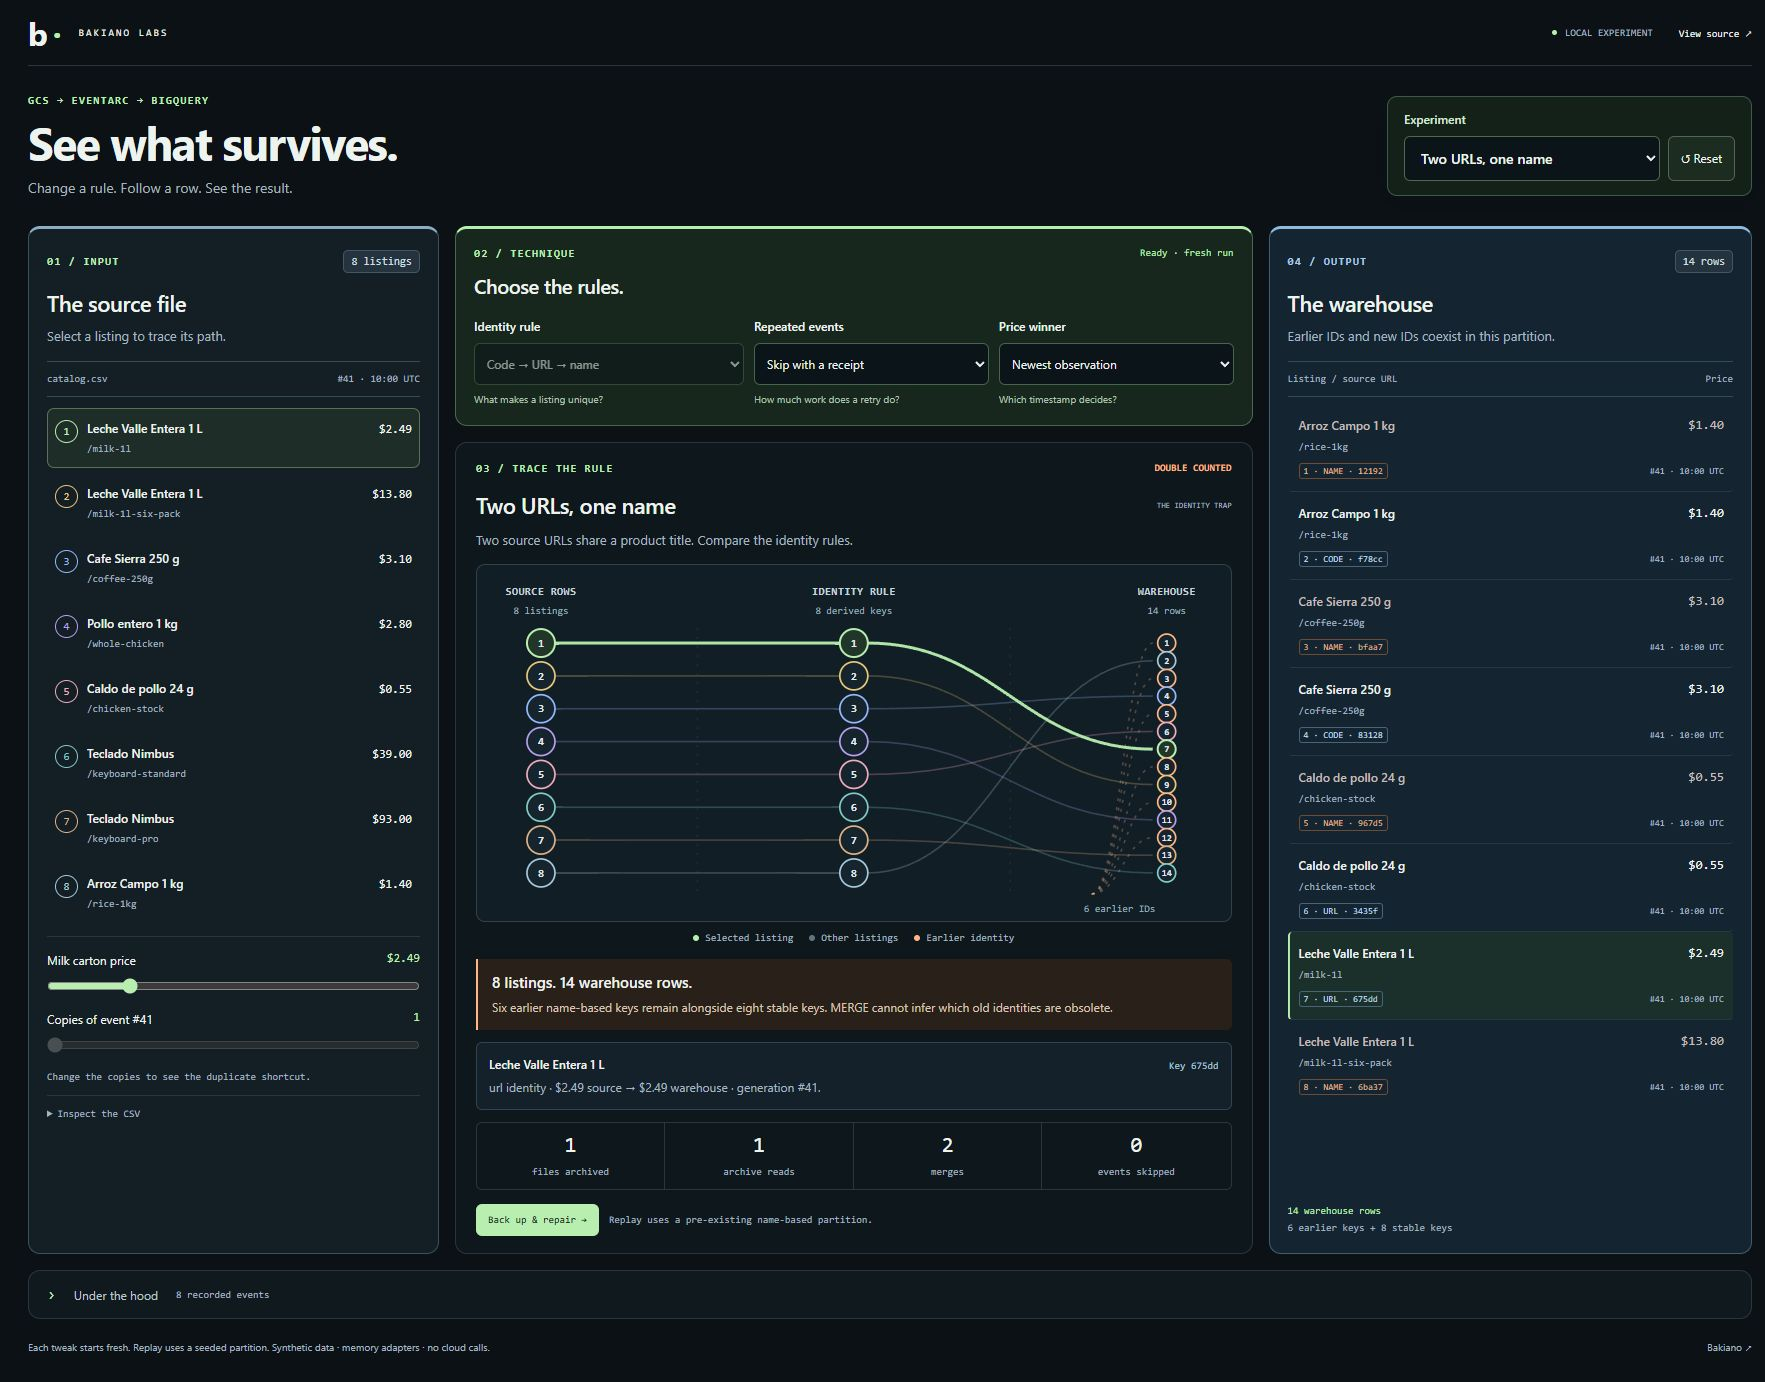
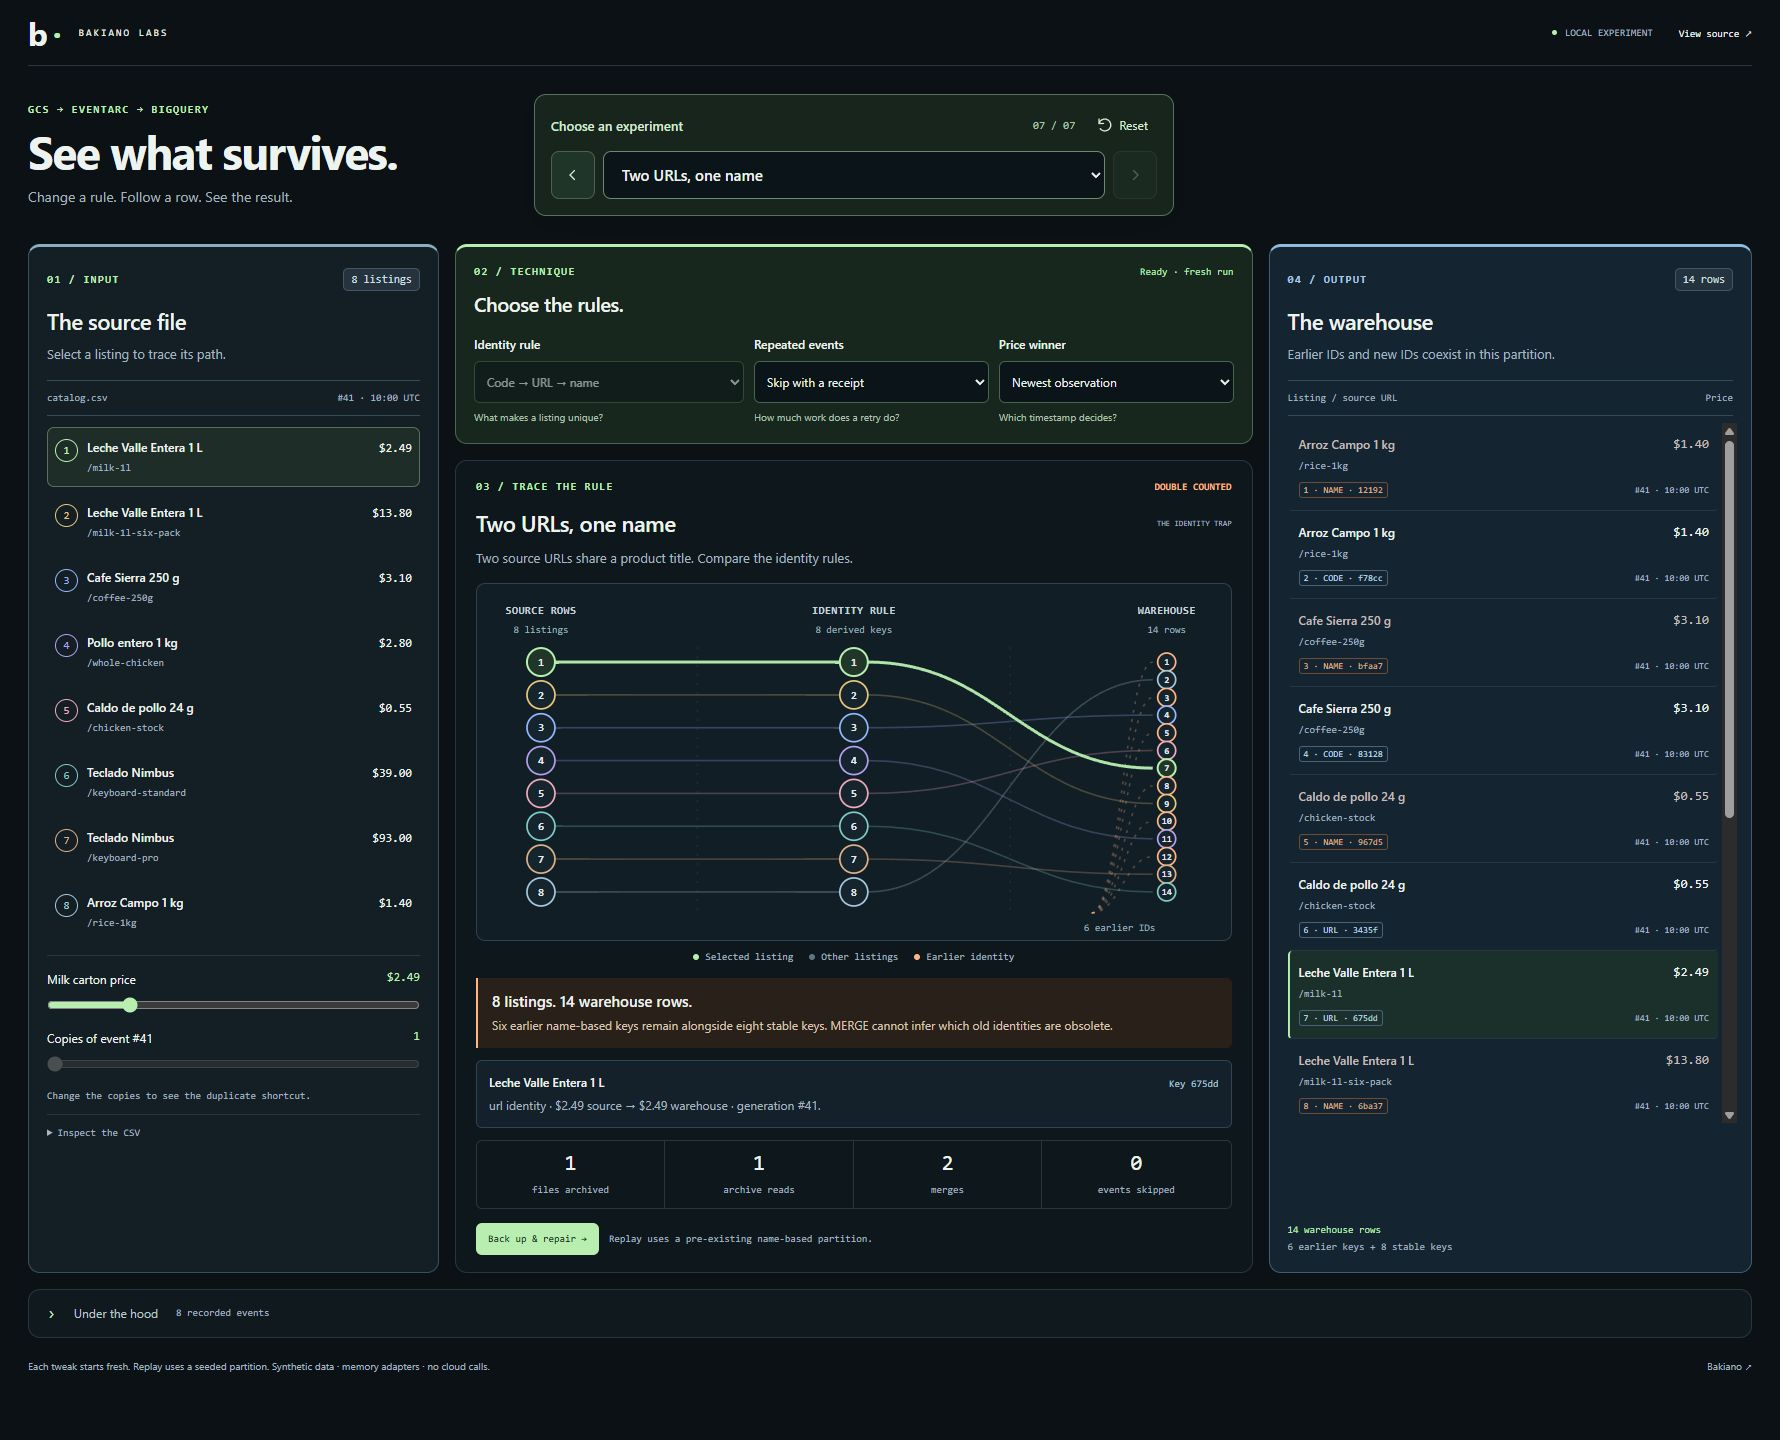
fix(demo): center experiment navigation above the rules

diff --git a/demo/style.css b/demo/style.css
@@ -20,7 +20,7 @@ button, select, input, summary, a { -webkit-tap-highlight-color: transparent; }
 button:focus-visible, select:focus-visible, input:focus-visible, summary:focus-visible, a:focus-visible { outline: 2px solid var(--mint); outline-offset: 3px; }
 button:disabled, select:disabled, input:disabled { cursor: default; opacity: .55; }
 [hidden] { display: none !important; }
-.shell { width: 100%; padding: 0 28px; }
+.shell { --lab-columns: minmax(245px,.85fr) minmax(440px,1.65fr) minmax(260px,1fr); --lab-gap: 16px; width: 100%; padding: 0 28px; }
 .top { height: 66px; border-bottom: 1px solid var(--line); display: flex; justify-content: space-between; align-items: center; gap: 18px; }
 .brand { display: flex; align-items: center; gap: 7px; font: bold 32px var(--sans); letter-spacing: -2px; }
 .brand > span:first-child { color: var(--mint); }
@@ -28,22 +28,29 @@ button:disabled, select:disabled, input:disabled { cursor: default; opacity: .55
 .top-right { display: flex; gap: 26px; font: 10px var(--mono); }
 .local { color: var(--muted); display: flex; gap: 8px; align-items: center; }
 .local i { width: 5px; height: 5px; border-radius: 50%; background: var(--mint); }
-.masthead { display: flex; align-items: center; justify-content: space-between; gap: 30px; padding: 28px 0; }
+.masthead { display: grid; grid-template-columns: var(--lab-columns); align-items: center; column-gap: var(--lab-gap); padding: 28px 0; }
 .eyebrow { font: 600 11px var(--mono); color: var(--mint); letter-spacing: 1.2px; margin: 0; }
 .masthead .eyebrow { margin-bottom: 10px; }
 h1 { font-size: clamp(32px, 2.9vw, 46px); font-weight: 650; line-height: 1.12; letter-spacing: -1.5px; margin: 0 0 8px; }
 h2 { font-size: 22px; font-weight: 600; letter-spacing: -.4px; margin: 0 0 6px; }
 h3 { margin: 0; font-size: 14px; font-weight: 550; }
 .lede { color: #a4b5bc; margin: 0; font-size: 14px; }
-.preset-control { min-width: 365px; padding: 14px 16px; border: 1px solid #3e5b49; border-radius: 10px; background: #142119; box-shadow: 0 7px 28px #0002; }
-.preset-control > label { display: block; font: 600 12px var(--sans); color: #d3e9d1; margin-bottom: 9px; }
-.preset-control select { font-size: 14px; font-weight: 550; border-color: #526653; padding: 11px 12px; }
-.preset-row { display: flex; gap: 8px; }
+.preset-control { grid-column: 2; justify-self: center; width: 100%; max-width: 640px; min-width: 0; padding: 14px 16px 16px; border: 1px solid #56725b; border-radius: 12px; background: #17251d; box-shadow: 0 7px 28px #0002; }
+.preset-heading { display: flex; justify-content: space-between; align-items: center; gap: 12px; margin-bottom: 10px; }
+.preset-heading > label { font: 600 13px var(--sans); color: #d3e9d1; }
+.preset-actions { display: flex; align-items: center; gap: 12px; }
+.preset-position { font: 11px var(--mono); color: #aec9ad; white-space: nowrap; }
+.preset-row { display: grid; grid-template-columns: 44px minmax(0,1fr) 44px; gap: 8px; }
+.preset-control select { height: 48px; font-size: 15px; font-weight: 550; border-color: #6c8a6e; padding: 11px 14px; border-radius: 8px; }
+.preset-arrow, .preset-reset { display: flex; align-items: center; justify-content: center; border: 1px solid #49634e; background: #203529; color: #d7eed1; border-radius: 8px; }
+.preset-arrow { height: 48px; padding: 0; }
+.preset-reset { min-height: 32px; padding: 5px 8px; gap: 5px; font-size: 12px; background: transparent; border-color: transparent; }
+.preset-arrow svg, .preset-reset svg { width: 18px; height: 18px; fill: none; stroke: currentColor; stroke-width: 1.8; stroke-linecap: round; stroke-linejoin: round; }
+.preset-arrow:hover:not(:disabled), .preset-reset:hover:not(:disabled) { background: #2b4634; border-color: var(--mint); }
+.preset-arrow:disabled { opacity: .3; }
 select { color: var(--text); background: #0b1419; border: 1px solid #34454e; border-radius: 6px; padding: 10px 12px; min-width: 0; width: 100%; font-size: 12px; }
 option { background: #111c22; color: var(--text); }
-.ghost { white-space: nowrap; border: 1px solid #526653; background: #1c2c21; color: var(--text); font: 12px var(--sans); padding: 10px 12px; border-radius: 6px; }
-.ghost:hover { border-color: var(--mint); }
-.experiment { display: grid; grid-template-columns: minmax(245px,.85fr) minmax(440px,1.65fr) minmax(260px,1fr); grid-template-areas: "input technique output" "input explanation output"; grid-template-rows: auto 1fr; gap: 16px; align-items: stretch; }
+.experiment { display: grid; grid-template-columns: var(--lab-columns); grid-template-areas: "input technique output" "input explanation output"; grid-template-rows: auto 1fr; gap: var(--lab-gap); align-items: stretch; }
 .panel { background: var(--panel); border: 1px solid var(--line); border-radius: 12px; min-width: 0; }
 .input-panel { grid-area: input; padding: 21px 18px 16px; background: #141e25; border-color: #3b515e; border-top: 3px solid #8caec1; }
 .technique-panel { grid-area: technique; padding: 18px; background: #17271d; border-color: #4a6850; border-top: 3px solid #b8efb0; }
@@ -165,15 +172,14 @@ input[type=range] { width: 100%; accent-color: var(--mint); margin: 0 0 14px; he
 #journal .fail b { color: var(--orange); }
 footer { margin: 21px 0 27px; display: flex; justify-content: space-between; gap: 20px; font-size: 10px; color: var(--muted); }
 @media (min-width: 1800px) {
-  .shell { padding: 0 44px; }
-  .experiment { grid-template-columns: minmax(300px,.9fr) minmax(560px,1.55fr) minmax(330px,1fr); gap: 20px; }
+  .shell { --lab-columns: minmax(300px,.9fr) minmax(560px,1.55fr) minmax(330px,1fr); --lab-gap: 20px; padding: 0 44px; }
   .source-row { padding: 11px 8px; }
   .source-name, .output-row h3 { font-size: 12px; }
   .source-price, .output-row .price { font-size: 13px; }
 }
 @media (max-width: 1080px) {
-  .shell { padding: 0 18px; }
-  .experiment { grid-template-columns: minmax(240px,.8fr) minmax(420px,1.4fr); grid-template-areas: "input technique" "input explanation" "output output"; }
+  .shell { --lab-columns: minmax(240px,.8fr) minmax(420px,1.4fr); padding: 0 18px; }
+  .experiment { grid-template-areas: "input technique" "input explanation" "output output"; }
   .output-list { display: grid; grid-template-columns: repeat(2,1fr); gap: 0 15px; max-height: none; }
   .output-summary { margin-top: 0; }
 }
@@ -187,7 +193,11 @@ footer { margin: 21px 0 27px; display: flex; justify-content: space-between; gap
   .masthead { display: block; padding: 25px 0 20px; }
   h1 { font-size: 34px; }
   .lede { font-size: 13px; }
-  .preset-control { margin-top: 19px; min-width: 0; }
+  .preset-control { margin-top: 19px; padding: 12px; }
+  .preset-heading { gap: 8px; }
+  .preset-heading > label { font-size: 12px; }
+  .preset-actions { gap: 8px; }
+  .preset-control select { font-size: 13px; padding: 10px; }
   .experiment { display: flex; flex-direction: column; gap: 12px; }
   .input-panel, .output-panel, .explanation-panel { padding: 17px 14px; }
   .source-list { grid-template-columns: repeat(2,minmax(0,1fr)); gap: 3px; }

diff --git a/demo/app.js b/demo/app.js
@@ -179,12 +179,29 @@ function schedule() {
   $('#run-state').textContent='Updating…';
   timer=setTimeout(()=>run('start'),100);
 }
+function updatePreset() {
+  const index=scenarios.findIndex(scenario=>scenario.id===current);
+  $('#preset').value=current;
+  $('#preset-position').textContent=String(index+1).padStart(2,'0')+' / '+String(scenarios.length).padStart(2,'0');
+  $('#previous-experiment').disabled=index<=0;
+  $('#next-experiment').disabled=index>=scenarios.length-1;
+}
+function choosePreset(id) {
+  const scenario=scenarios.find(item=>item.id===id);
+  if(!scenario) return;
+  current=id; step='start'; selected=0;
+  updatePreset(); controls(scenario.defaults); run();
+}
 $('#input-rows').addEventListener('click',selectSource);
 $('#lineage').addEventListener('click',selectSource);
 $('#lineage').addEventListener('keydown',event=>{ if(['Enter',' '].includes(event.key)) { event.preventDefault(); selectSource(event); $('#input-rows [data-source="'+selected+'"]').focus({preventScroll:true}); } });
 for (const id of ['identity','receipts','latest']) $('#'+id).addEventListener('change',()=>{ updateKnobs(); run('start'); });
 for (const id of ['milk-price','deliveries']) $('#'+id).addEventListener('input',schedule);
-$('#preset').addEventListener('change',()=>{ current=$('#preset').value; step='start'; selected=0; controls(scenarios.find(s=>s.id===current).defaults); run(); });
+$('#preset').addEventListener('change',()=>choosePreset($('#preset').value));
+for(const [id,direction] of [['previous-experiment',-1],['next-experiment',1]]) $('#'+id).addEventListener('click',()=>{
+  const index=scenarios.findIndex(scenario=>scenario.id===current);
+  choosePreset(scenarios[index+direction]?.id);
+});
 $('#reset').addEventListener('click',()=>{ step='start'; controls(scenarios.find(s=>s.id===current).defaults); run(); });
 $('#replay').addEventListener('click',()=>run('replay'));
 $('#repair').addEventListener('click',()=>run('repair'));
@@ -198,6 +215,7 @@ try {
   if(!response.ok) throw new Error('Could not load experiments.');
   scenarios=await response.json();
   $('#preset').innerHTML=scenarios.map(s=>'<option value="'+escape(s.id)+'">'+escape(s.name)+'</option>').join('');
+  $('#preset').disabled=false; $('#reset').disabled=false; updatePreset();
   controls(scenarios[0].defaults);
   await run();
 } catch(error) { $('#run-state').textContent=error.message; }

diff --git a/demo/index.html b/demo/index.html
@@ -16,8 +16,20 @@
   <section class="masthead">
     <div><p class="eyebrow">GCS → EVENTARC → BIGQUERY</p><h1>See what survives.</h1><p class="lede">Change a rule. Follow a row. See the result.</p></div>
     <div class="preset-control">
-      <label for="preset">Experiment</label>
-      <div class="preset-row"><select id="preset"></select><button id="reset" class="ghost" title="Restore this experiment's defaults">↺ Reset</button></div>
+      <div class="preset-heading">
+        <label for="preset">Choose an experiment</label>
+        <div class="preset-actions">
+          <span id="preset-position" class="preset-position" aria-live="polite">— / 7</span>
+          <button id="reset" class="preset-reset" type="button" title="Restore this experiment's defaults" disabled>
+            <svg viewBox="0 0 24 24" aria-hidden="true"><path d="M4 10a8 8 0 1 1 1.5 7M4 4v6h6"/></svg><span>Reset</span>
+          </button>
+        </div>
+      </div>
+      <div class="preset-row">
+        <button id="previous-experiment" class="preset-arrow" type="button" aria-label="Previous experiment" disabled><svg viewBox="0 0 24 24" aria-hidden="true"><path d="m14 6-6 6 6 6"/></svg></button>
+        <select id="preset" disabled></select>
+        <button id="next-experiment" class="preset-arrow" type="button" aria-label="Next experiment" disabled><svg viewBox="0 0 24 24" aria-hidden="true"><path d="m10 6 6 6-6 6"/></svg></button>
+      </div>
     </div>
   </section>
   <main id="experiment" class="experiment" aria-busy="false">
